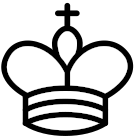
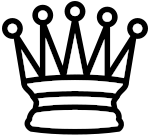
1. Added White Knights (fully functional) 2. Added Black Knights (fully functional) 3. Added White Kings (fully functional) (Can't checkmate yet) 4. Added Black Kings (fully functional) (Can't checkmate yet) 5. Added White Queens (still triggering a bug where you can kill multiple times in a row) 6.

diff --git a/src/Chess/Pieces/Piece.java b/src/Chess/Pieces/Piece.java
@@ -200,9 +200,10 @@ public abstract class Piece extends JButton implements ActionListener {
                 if (Board.hasPiece[i][j]) {
                     detectKill(i, j);
                     break;
+                } else {
+                    highlight(i, j);
+                    j++;
                 }
-                highlight(i, j);
-                j++;
             }
         }
 
@@ -212,9 +213,10 @@ public abstract class Piece extends JButton implements ActionListener {
                 if (Board.hasPiece[i][j]) {
                     detectKill(i, j);
                     break;
+                } else {
+                    highlight(i, j);
+                    j--;
                 }
-                highlight(i, j);
-                j--;
             }
         }
         //-------------------------------------------------------------------------
@@ -226,9 +228,10 @@ public abstract class Piece extends JButton implements ActionListener {
                 if (Board.hasPiece[i][j]) {
                     detectKill(i, j);
                     break;
+                } else {
+                    highlight(i, j);
+                    j--;
                 }
-                highlight(i, j);
-                j--;
             }
         }
 
@@ -238,14 +241,43 @@ public abstract class Piece extends JButton implements ActionListener {
                 if (Board.hasPiece[i][j]) {
                     detectKill(i, j);
                     break;
+                } else {
+                    highlight(i, j);
+                    j++;
                 }
-                highlight(i, j);
-                j++;
             }
         }
         //---------------------------------------------------------------------------
     }
+
+    public void knightMoves(int x, int y) {
+        int[] xMoves = {x + 2, x + 2, x - 2, x - 2, x + 1, x + 1, x - 1, x - 1};
+        int[] yMoves = {y + 1, y - 1, y + 1, y - 1, y + 2, y - 2, y + 2, y - 2};
+        for (int i = 0; i < xMoves.length; i++)
+            if ((xMoves[i] >= 0 && xMoves[i] < 8) && (yMoves[i] >= 0 && yMoves[i] < 8)) {
+                if (Board.hasPiece[xMoves[i]][yMoves[i]])
+                    detectKill(xMoves[i], yMoves[i]);
+                else {
+                    highlight(xMoves[i], yMoves[i]);
+                }
+            }
+    }
+
+    public void kingMoves(int x, int y) {
+        int[] xMoves  = {x+1, x+1, x+1, x-1, x-1, x-1, x, x};
+        int[] yMoves = {y-1, y, y+1, y-1, y, y+1, y-1, y+1};
+        for (int i = 0; i < xMoves.length; i++)
+            if ((xMoves[i] >= 0 && xMoves[i] < 8) && (yMoves[i] >= 0 && yMoves[i] < 8)) {
+                if (Board.hasPiece[xMoves[i]][yMoves[i]])
+                    detectKill(xMoves[i], yMoves[i]);
+                else {
+                    highlight(xMoves[i], yMoves[i]);
+                }
+            }
+    }
 }
+
+
 
 
 

diff --git a/src/Chess/Board/Set.java b/src/Chess/Board/Set.java
@@ -8,8 +8,17 @@ public class Set extends Board {
     public Set(int width, int height) {
         super(width, height);
 
-       // WhiteKing whiteKing = new WhiteKing();
-       // whiteKing.setPiece(4, 4);
+        //kings
+       WhiteKing whiteKing = new WhiteKing();
+       whiteKing.setPiece(7, 3);
+       BlackKing blackKing = new BlackKing();
+       blackKing.setPiece(0,3);
+
+       //queens
+        WhiteQueen whiteQueen = new WhiteQueen();
+        whiteQueen.setPiece(7,4);
+        BlackQueen blackQueen = new BlackQueen();
+        blackQueen.setPiece(0,4);
 
         //pawns
         WhitePawn[] whitePawn = new WhitePawn[8];
@@ -36,15 +45,27 @@ public class Set extends Board {
         blackRook2.setPiece(0,7);
 
         //bishops
-        WhiteBishop bishop1 = new WhiteBishop();
-        bishop1.setPiece(7,2);
-        WhiteBishop bishop2 = new WhiteBishop();
-        bishop2.setPiece(7,5);
+        WhiteBishop whiteBishop1 = new WhiteBishop();
+        whiteBishop1.setPiece(7,2);
+        WhiteBishop whiteBishop2 = new WhiteBishop();
+        whiteBishop2.setPiece(7,5);
 
         BlackBishop blackBishop1 = new BlackBishop();
         blackBishop1.setPiece(0,2);
         BlackBishop blackBishop2 = new BlackBishop();
         blackBishop2.setPiece(0,5);
+
+        //knights
+        WhiteKnight whiteKnight1 = new WhiteKnight();
+        whiteKnight1.setPiece(7,1);
+        WhiteKnight whiteKnight2 = new WhiteKnight();
+        whiteKnight2.setPiece(7,6);
+
+        BlackKnight blackKnight1 = new BlackKnight();
+        blackKnight1.setPiece(0,1);
+        BlackKnight blackKnight2 = new BlackKnight();
+        blackKnight2.setPiece(0,6);
+
 
 
 

diff --git a/src/Chess/Pieces/BlackKnight.java b/src/Chess/Pieces/BlackKnight.java
@@ -2,10 +2,12 @@ package Chess.Pieces;
 
 import Chess.Board.Board;
 
-public class WhiteKing extends Piece {
-    public WhiteKing() {
-        super("white_king.png");
-        team = 'w';
+import java.awt.event.ActionListener;
+
+public class BlackKnight extends Piece {
+    public BlackKnight() {
+        super("black_knight.png");
+        team = 'b';
         this.addActionListener(this);
     }
 
@@ -13,7 +15,7 @@ public class WhiteKing extends Piece {
     public void possibleMoves(int x, int y) {
         Board.unHighlightAll(); //unhighlights old piece's movement when clicking on a new one
         if (Board.getClickedCase(x, y)) {
-            kingMoves(x, y);
+            knightMoves(x, y);
             detectKill(x, y);
             Board.setClickedCase(x, y, true);
         } else {
@@ -25,7 +27,7 @@ public class WhiteKing extends Piece {
     @Override
     public void detectKill(int x, int y) {
 
-        if (Board.hasPiece[x][y] && Board.getPiece(x, y).team == 'b') {
+        if (Board.hasPiece[x][y] && Board.getPiece(x, y).team == 'w') {
             highlight(x, y);
             Board.getPiece(x, y).setEnabled(false);
             Board.getPiece(x, y).addMouseListener(Board.clickMouseListener[x][y]);
@@ -35,7 +37,7 @@ public class WhiteKing extends Piece {
     @Override
     public void unDetectKill(int x, int y) {
 
-        if (Board.hasPiece[x][y] && Board.getPiece(x, y).team == 'b') {
+        if (Board.hasPiece[x][y] && Board.getPiece(x, y).team == 'w') {
             unHighlight(x, y);
             Board.getPiece(x, y).setEnabled(true);
             Board.getPiece(x, y).removeMouseListener(Board.clickMouseListener[x][y]);

diff --git a/src/Chess/Pieces/BlackQueen.java b/src/Chess/Pieces/BlackQueen.java
@@ -2,10 +2,10 @@ package Chess.Pieces;
 
 import Chess.Board.Board;
 
-public class WhiteKing extends Piece {
-    public WhiteKing() {
-        super("white_king.png");
-        team = 'w';
+public class BlackQueen extends Piece {
+    public BlackQueen() {
+        super("black_queen.png");
+        team = 'b';
         this.addActionListener(this);
     }
 
@@ -13,6 +13,8 @@ public class WhiteKing extends Piece {
     public void possibleMoves(int x, int y) {
         Board.unHighlightAll(); //unhighlights old piece's movement when clicking on a new one
         if (Board.getClickedCase(x, y)) {
+            rookMoves(x, y);
+            bishopMoves(x, y);
             kingMoves(x, y);
             detectKill(x, y);
             Board.setClickedCase(x, y, true);
@@ -25,7 +27,7 @@ public class WhiteKing extends Piece {
     @Override
     public void detectKill(int x, int y) {
 
-        if (Board.hasPiece[x][y] && Board.getPiece(x, y).team == 'b') {
+        if (Board.hasPiece[x][y] && Board.getPiece(x, y).team == 'w') {
             highlight(x, y);
             Board.getPiece(x, y).setEnabled(false);
             Board.getPiece(x, y).addMouseListener(Board.clickMouseListener[x][y]);
@@ -35,7 +37,7 @@ public class WhiteKing extends Piece {
     @Override
     public void unDetectKill(int x, int y) {
 
-        if (Board.hasPiece[x][y] && Board.getPiece(x, y).team == 'b') {
+        if (Board.hasPiece[x][y] && Board.getPiece(x, y).team == 'w') {
             unHighlight(x, y);
             Board.getPiece(x, y).setEnabled(true);
             Board.getPiece(x, y).removeMouseListener(Board.clickMouseListener[x][y]);

diff --git a/src/Chess/Pieces/BlackKing.java b/src/Chess/Pieces/BlackKing.java
@@ -2,10 +2,10 @@ package Chess.Pieces;
 
 import Chess.Board.Board;
 
-public class WhiteKing extends Piece {
-    public WhiteKing() {
-        super("white_king.png");
-        team = 'w';
+public class BlackKing extends Piece {
+    public BlackKing() {
+        super("black_king.png");
+        team = 'b';
         this.addActionListener(this);
     }
 
@@ -25,7 +25,7 @@ public class WhiteKing extends Piece {
     @Override
     public void detectKill(int x, int y) {
 
-        if (Board.hasPiece[x][y] && Board.getPiece(x, y).team == 'b') {
+        if (Board.hasPiece[x][y] && Board.getPiece(x, y).team == 'w') {
             highlight(x, y);
             Board.getPiece(x, y).setEnabled(false);
             Board.getPiece(x, y).addMouseListener(Board.clickMouseListener[x][y]);
@@ -35,7 +35,7 @@ public class WhiteKing extends Piece {
     @Override
     public void unDetectKill(int x, int y) {
 
-        if (Board.hasPiece[x][y] && Board.getPiece(x, y).team == 'b') {
+        if (Board.hasPiece[x][y] && Board.getPiece(x, y).team == 'w') {
             unHighlight(x, y);
             Board.getPiece(x, y).setEnabled(true);
             Board.getPiece(x, y).removeMouseListener(Board.clickMouseListener[x][y]);

diff --git a/src/Chess/Pieces/WhiteKnight.java b/src/Chess/Pieces/WhiteKnight.java
@@ -2,9 +2,11 @@ package Chess.Pieces;
 
 import Chess.Board.Board;
 
-public class WhiteKing extends Piece {
-    public WhiteKing() {
-        super("white_king.png");
+import java.awt.event.ActionListener;
+
+public class WhiteKnight extends Piece implements ActionListener {
+    public WhiteKnight() {
+        super("white_knight.png");
         team = 'w';
         this.addActionListener(this);
     }
@@ -13,7 +15,7 @@ public class WhiteKing extends Piece {
     public void possibleMoves(int x, int y) {
         Board.unHighlightAll(); //unhighlights old piece's movement when clicking on a new one
         if (Board.getClickedCase(x, y)) {
-            kingMoves(x, y);
+            knightMoves(x, y);
             detectKill(x, y);
             Board.setClickedCase(x, y, true);
         } else {

diff --git a/src/Chess/Pieces/WhiteQueen.java b/src/Chess/Pieces/WhiteQueen.java
@@ -2,9 +2,9 @@ package Chess.Pieces;
 
 import Chess.Board.Board;
 
-public class WhiteKing extends Piece {
-    public WhiteKing() {
-        super("white_king.png");
+public class WhiteQueen extends Piece {
+    public WhiteQueen() {
+        super("white_queen.png");
         team = 'w';
         this.addActionListener(this);
     }
@@ -13,6 +13,8 @@ public class WhiteKing extends Piece {
     public void possibleMoves(int x, int y) {
         Board.unHighlightAll(); //unhighlights old piece's movement when clicking on a new one
         if (Board.getClickedCase(x, y)) {
+            rookMoves(x, y);
+            bishopMoves(x, y);
             kingMoves(x, y);
             detectKill(x, y);
             Board.setClickedCase(x, y, true);
